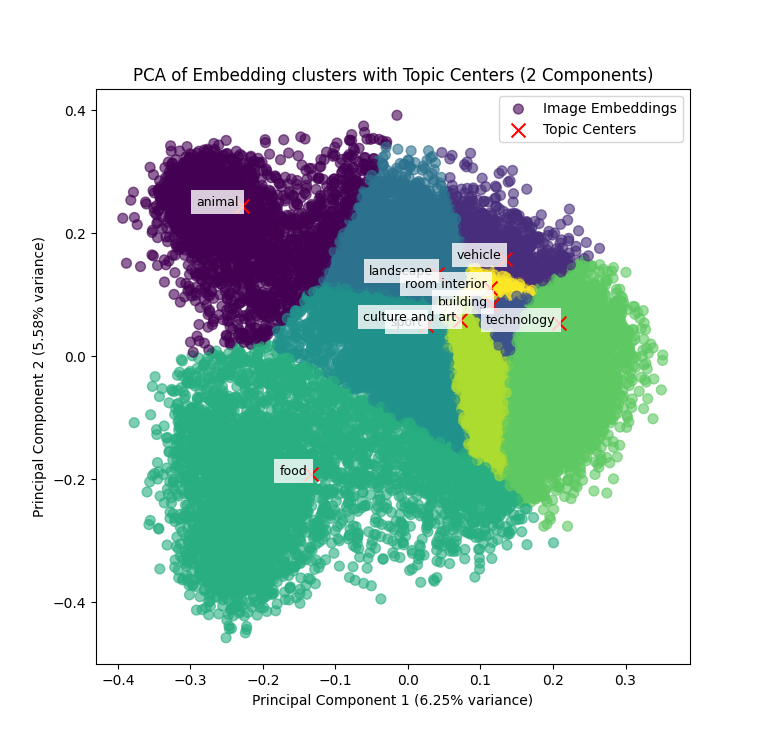
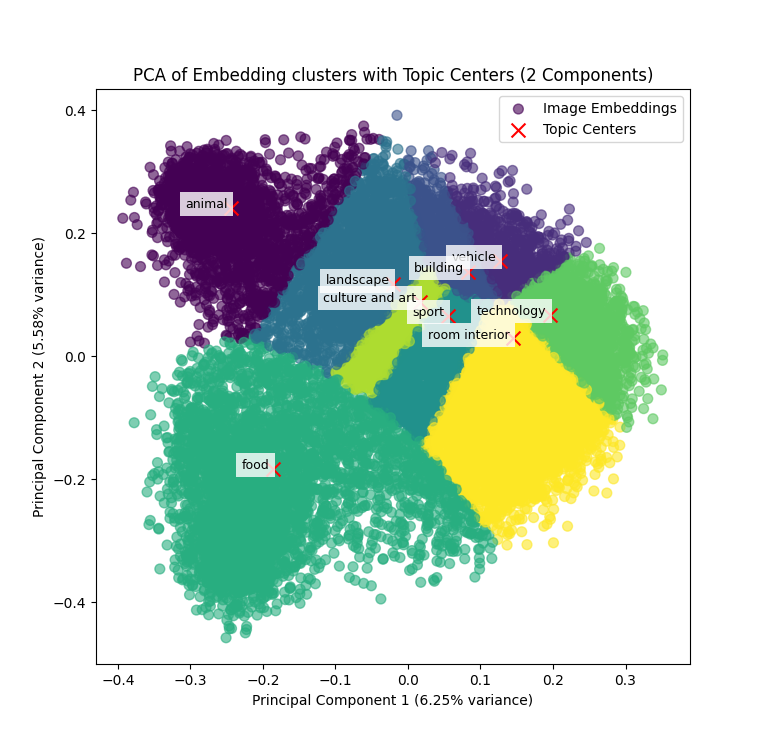
larger group for average

Changed region(s): [[0.2402, 0.1542, 0.8107, 0.7399], [0.2102, 0.2466, 0.3303, 0.3083], [0.3003, 0.5858, 0.4204, 0.6475]]

diff --git a/data_analysis/topic_clusters.py b/data_analysis/topic_clusters.py
@@ -54,7 +54,7 @@ topic_embeddings = {keyword: get_text_embedding(keyword) for keyword in keywords
 topic_keys = list(topic_embeddings.keys())
 topic_embeddings_matrix = np.vstack([topic_embeddings[key] for key in topic_keys])
 
-top_n = 5  
+top_n = 200
 new_topic_embeddings = {}
 
 for i, topic in enumerate(topic_keys):

diff --git a/data_analysis/topic_clusters_multidimensional.py b/data_analysis/topic_clusters_multidimensional.py
@@ -54,7 +54,7 @@ topic_embeddings = {keyword: get_text_embedding(keyword) for keyword in keywords
 topic_keys = list(topic_embeddings.keys())
 topic_embeddings_matrix = np.vstack([topic_embeddings[key] for key in topic_keys])
 
-top_n = 5  
+top_n = 200
 new_topic_embeddings = {}
 
 for i, topic in enumerate(topic_keys):
